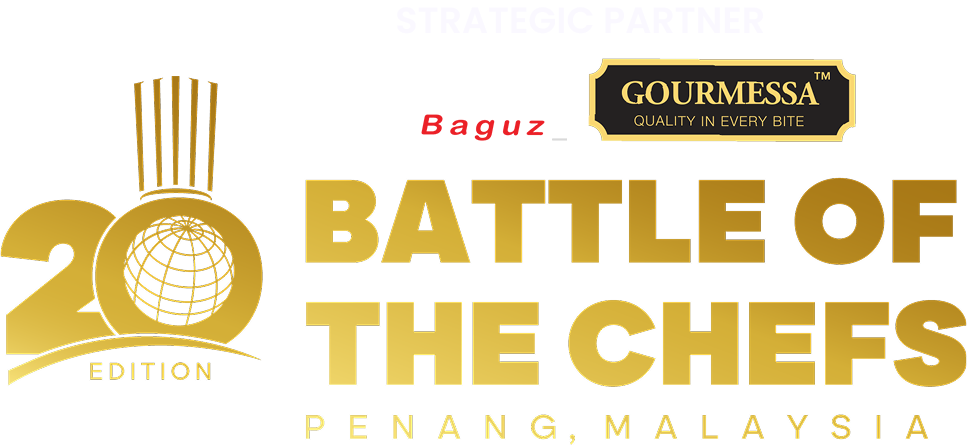
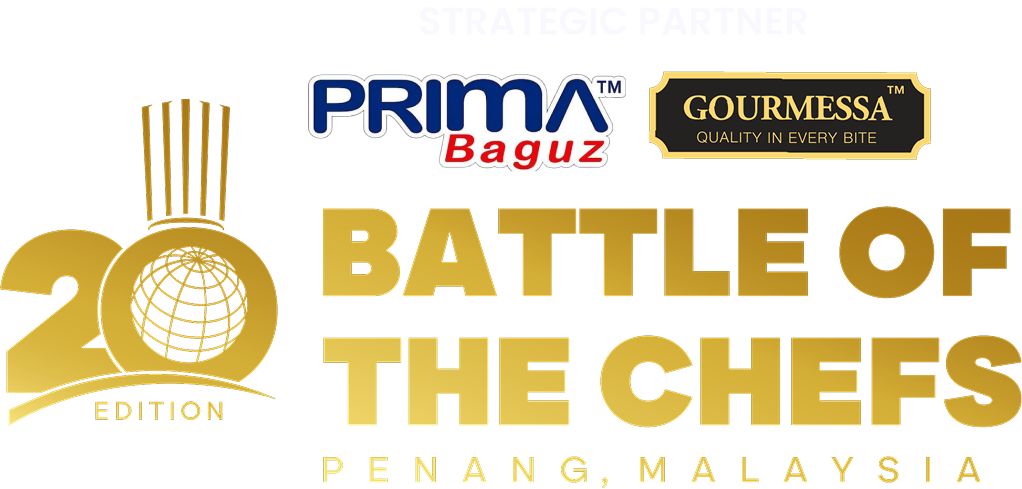
client chnages done

diff --git a/index.html b/index.html
@@ -59,10 +59,10 @@
     <!-- Header end -->
     <!-- Banner Start -->
     <div class="pre-banner__main">
-      <div class="pre-banner__bg pre-banner__bg--desk" style="background-image: url(assets/images/banner-1.png);"></div>
-      <div class="pre-banner__bg pre-banner__bg--tab" style="background-image: url(assets/images/banner-1tab.png);">
+      <div class="pre-banner__bg pre-banner__bg--desk" style="background-image: url(assets/images/banner.png);"></div>
+      <div class="pre-banner__bg pre-banner__bg--tab" style="background-image: url(assets/images/banner-tab.png);">
       </div>
-      <div class="pre-banner__bg pre-banner__bg--mob" style="background-image: url(assets/images/banner-1mob.png);">
+      <div class="pre-banner__bg pre-banner__bg--mob" style="background-image: url(assets/images/banner-mob.png);">
       </div>
       <!-- <div class="pre-banner__ai-avatar" aria-hidden="true">
         <img src="assets/images/ai-avathar1.gif" alt="AI avatar">
@@ -71,7 +71,7 @@
         <div class="pre-banner">
           <div class="pre-banner__body">
             <div class="pre-banner__body-text">
-              <img class="" src="assets/images/banner-1-text.png" alt="">
+              <img class="" src="assets/images/banner-text.png" alt="">
             </div>
             <div class="pre-btn__wrap">
             <a href="https://asiaculinarychallenge.com/competitions/39" target="_blank" class="pre-btn">
@@ -154,6 +154,7 @@
       <div class="container">
         <h2 class="pre-competition__heading text-center" data-aos="fade-up" data-aos-duration="800" data-aos-delay="100"
           data-aos-easing="ease-out-cubic">COMPETITION CATEGORIES</h2>
+          <p class="pre-competition__heading-sub" data-aos="fade-up" data-aos-duration="800" data-aos-delay="100">Title Sponsored by PrimaBaguz</p>
 
         <div class="row pre-competition__grid">
           <!-- Card 1 -->

diff --git a/assets/scss/organisms/_banner.scss b/assets/scss/organisms/_banner.scss
@@ -106,17 +106,17 @@
 
          &--inv {
             background-color: transparent;
-            border: 2px solid $color-blue;
-            color: $color-blue;
+            border: 2px solid $color-white;
+            color: $color-white;
 
             &:hover {
-               color: $color-blue;
+               color: $color-white;
             }
 
             span {
                &::after {
                   height: 0.8px;
-                  background-color: $color-blue;
+                  background-color: $color-white;
                }
             }
          }

diff --git a/assets/scss/organisms/_competition-categories.scss b/assets/scss/organisms/_competition-categories.scss
@@ -75,8 +75,13 @@
       color: #ffffff;
       font-size: 42px;
       font-weight: $font-semi-bold;
-      margin-bottom: 60px;
       letter-spacing: 1px;
+      &-sub{
+         font-size: 18px;
+         color: #ccc;
+         text-align: center;
+         margin-bottom: 60px;
+      }
    }
 
    &__grid {
